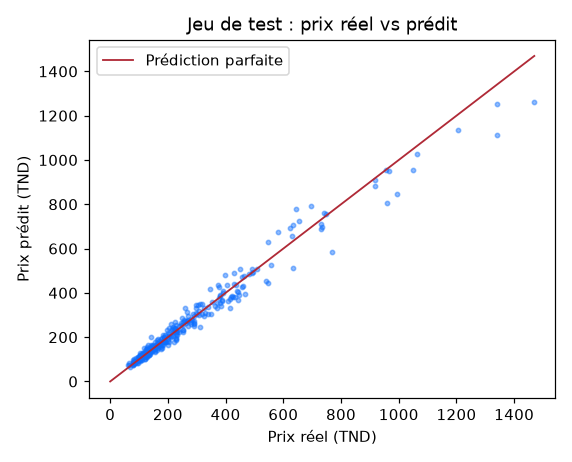
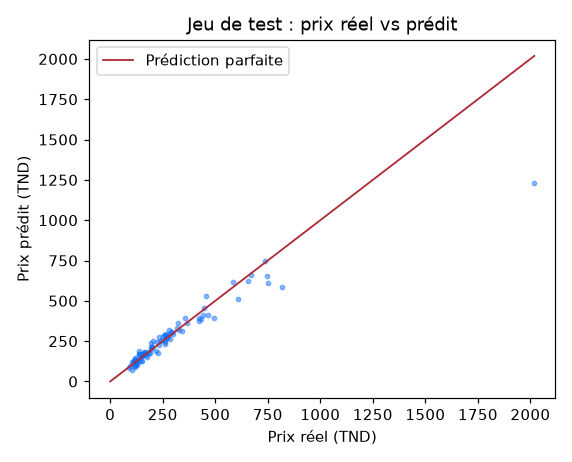
Fix tests + config pytest

diff --git a/reclamations/tests.py b/reclamations/tests.py
@@ -44,10 +44,10 @@ def test_creation_via_form(client):
 
 @pytest.mark.django_db
 def test_client_ne_voit_que_ses_reclamations(client):
-    u1 = User.objects.create_user(username='u1', password='pass')
-    u2 = User.objects.create_user(username='u2', password='pass')
-    Reclamation.objects.create(utilisateur=u1, sujet='Recu1', description='...')
-    Reclamation.objects.create(utilisateur=u2, sujet='Recu2', description='...')
+    u1 = User.objects.create_user(username='u1', email='u1@test.com', password='pass', role='TRANSPORTEUR')
+    u2 = User.objects.create_user(username='u2', email='u2@test.com', password='pass', role='TRANSPORTEUR')
+    Reclamation.objects.create(utilisateur=u1, destinataire=u1, sujet='Recu1', description='...')
+    Reclamation.objects.create(utilisateur=u2, destinataire=u2, sujet='Recu2', description='...')
     client.force_login(u1)
     response = client.get(reverse('reclamations:liste'))
     assert response.status_code == 200

diff --git a/config/settings.py b/config/settings.py
@@ -71,7 +71,8 @@ INSTALLED_APPS = [
     'evaluations',
     'meteo',
     'factures',
-    'ia',            # intelligence artificielle: estimation du prix (machine learning)
+    'ia',   
+    'reclamations'         # intelligence artificielle: estimation du prix (machine learning)
 ]
 
 MIDDLEWARE = [

diff --git a/config/urls.py b/config/urls.py
@@ -44,6 +44,7 @@ urlpatterns = [
     path('api/reservations/', include('reservations.urls')),
     path('api/evaluations/', include('evaluations.urls')),
     path('api/factures/', include('factures.urls')),
+    path("reclamations/", include("reclamations.urls")),
 
 ]
 
